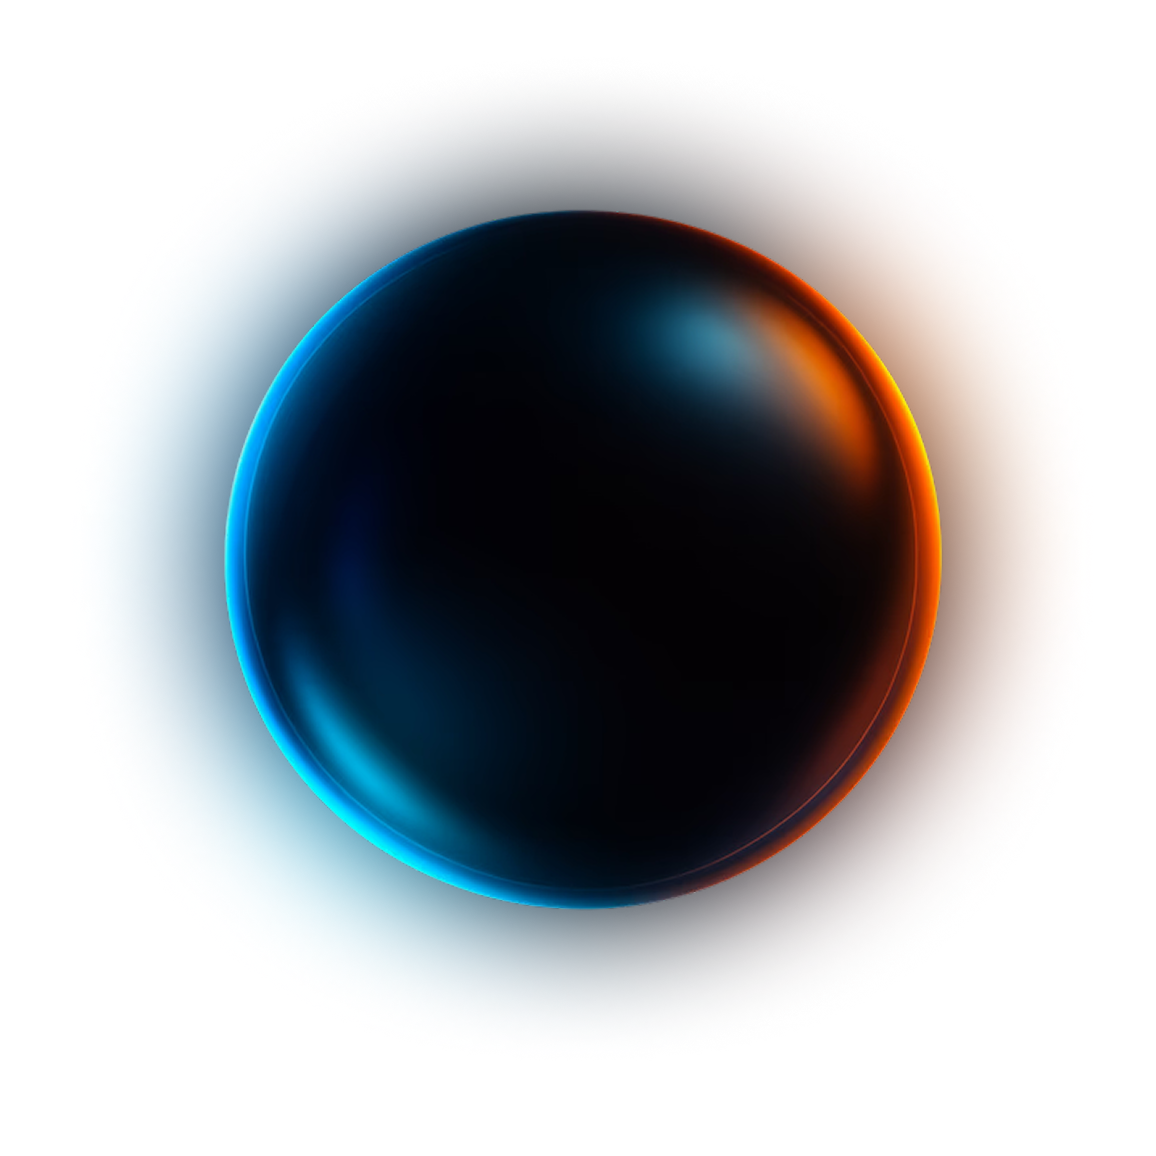
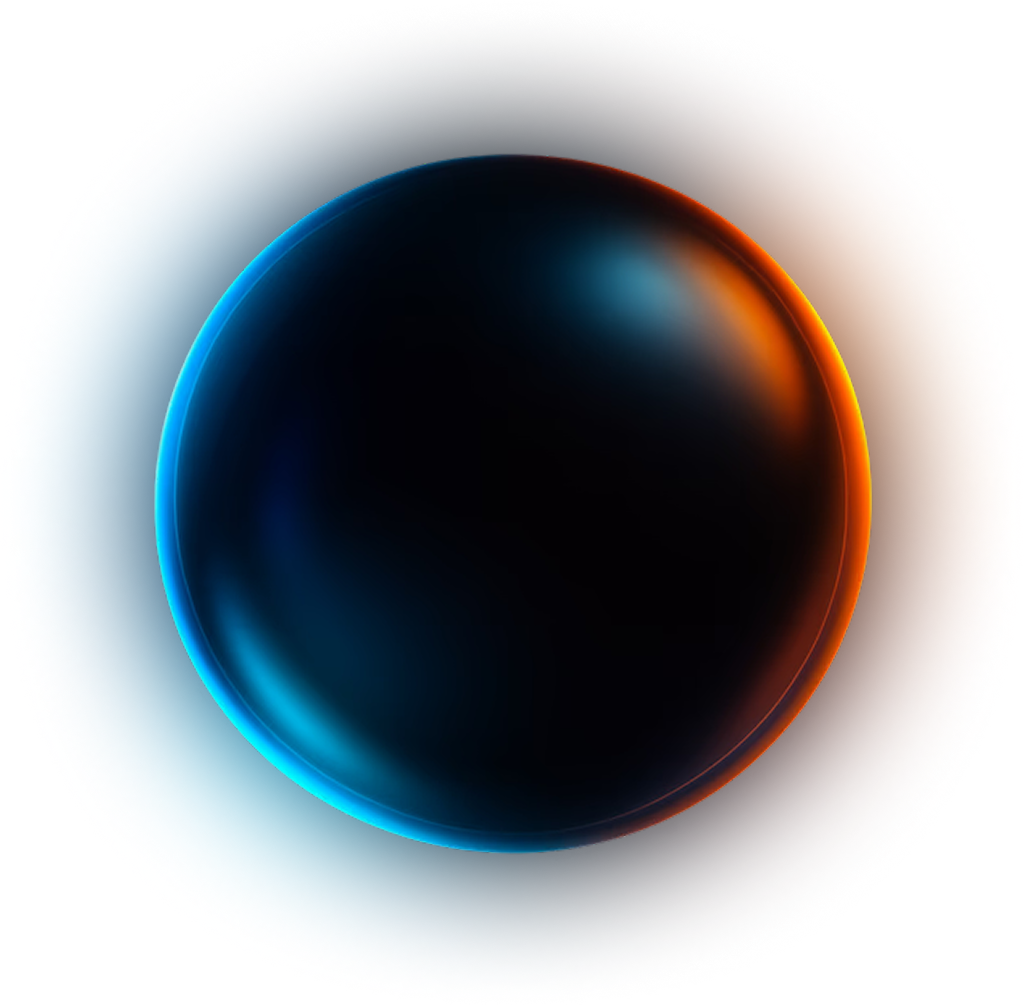
code updated

diff --git a/src/styles/global.css b/src/styles/global.css
@@ -508,6 +508,11 @@ a.navbar__cta--mobile {
   margin-top: 116px;
 }
 
+.categories__grid > .category-card:nth-child(1) { transition-delay: 0s, 0s, 0s; }
+.categories__grid > .category-card:nth-child(2) { transition-delay: 0s, 0.1s, 0.1s; }
+.categories__grid > .category-card:nth-child(3) { transition-delay: 0s, 0.2s, 0.2s; }
+.categories__grid > .category-card:nth-child(4) { transition-delay: 0s, 0.3s, 0.3s; }
+
 .category-card {
   position: relative;
   overflow: hidden;
@@ -516,7 +521,7 @@ a.navbar__cta--mobile {
   border-radius: 15px;
   text-align: left;
   background: linear-gradient(168.65deg, rgba(0, 0, 0, 0.8) -2.45%, rgba(22, 22, 22, 0.9) 102.09%);
-  transition: background 0.4s ease;
+  transition: background 0.4s ease, opacity 0.8s ease, transform 0.8s ease;
 }
 
 .category-card::before {
@@ -1021,8 +1026,9 @@ a.navbar__cta--mobile {
   inset: 0;
   width: 100%;
   height: 100%;
-  filter: blur(45px);
-  opacity: 0.85;
+  border-radius: 0;
+  object-fit: contain;
+  transform: scale(1.15);
 }
 
 .industries__glow--sharp {
@@ -1148,6 +1154,11 @@ a.navbar__cta--mobile {
   margin-top: 72px;
 }
 
+.why-us__grid > .why-card:nth-child(1) { transition-delay: 0s, 0s, 0s; }
+.why-us__grid > .why-card:nth-child(2) { transition-delay: 0s, 0.1s, 0.1s; }
+.why-us__grid > .why-card:nth-child(3) { transition-delay: 0s, 0.2s, 0.2s; }
+.why-us__grid > .why-card:nth-child(4) { transition-delay: 0s, 0.3s, 0.3s; }
+
 .why-card {
   position: relative;
   overflow: hidden;
@@ -1157,7 +1168,7 @@ a.navbar__cta--mobile {
   border-radius: 15px;
   background: rgba(3, 1, 0, 0.4);
   backdrop-filter: blur(40px);
-  transition: background 0.4s ease;
+  transition: background 0.4s ease, opacity 0.8s ease, transform 0.8s ease;
 }
 
 .why-card::before {
@@ -1485,7 +1496,7 @@ a.navbar__cta--mobile {
   padding: 22px;
   border-radius: 12px;
   background: linear-gradient(168.65deg, rgba(0,0,0,0.8) -2.45%, rgba(22,22,22,0.9) 102.09%);
-  transition: background 0.4s ease;
+  transition: background 0.4s ease, opacity 0.8s ease, transform 0.8s ease;
 }
 .plan-card--active {
   background: var(--color-bg);
@@ -2836,9 +2847,6 @@ a.navbar__cta--mobile {
     top: 11.875vw;
     width: 44.583vw;
     height: 44.583vw;
-  }
-  .industries__glow--soft {
-    filter: blur(2.344vw);
   }
   .industries__glow--sharp {
     top: 0.781vw;
